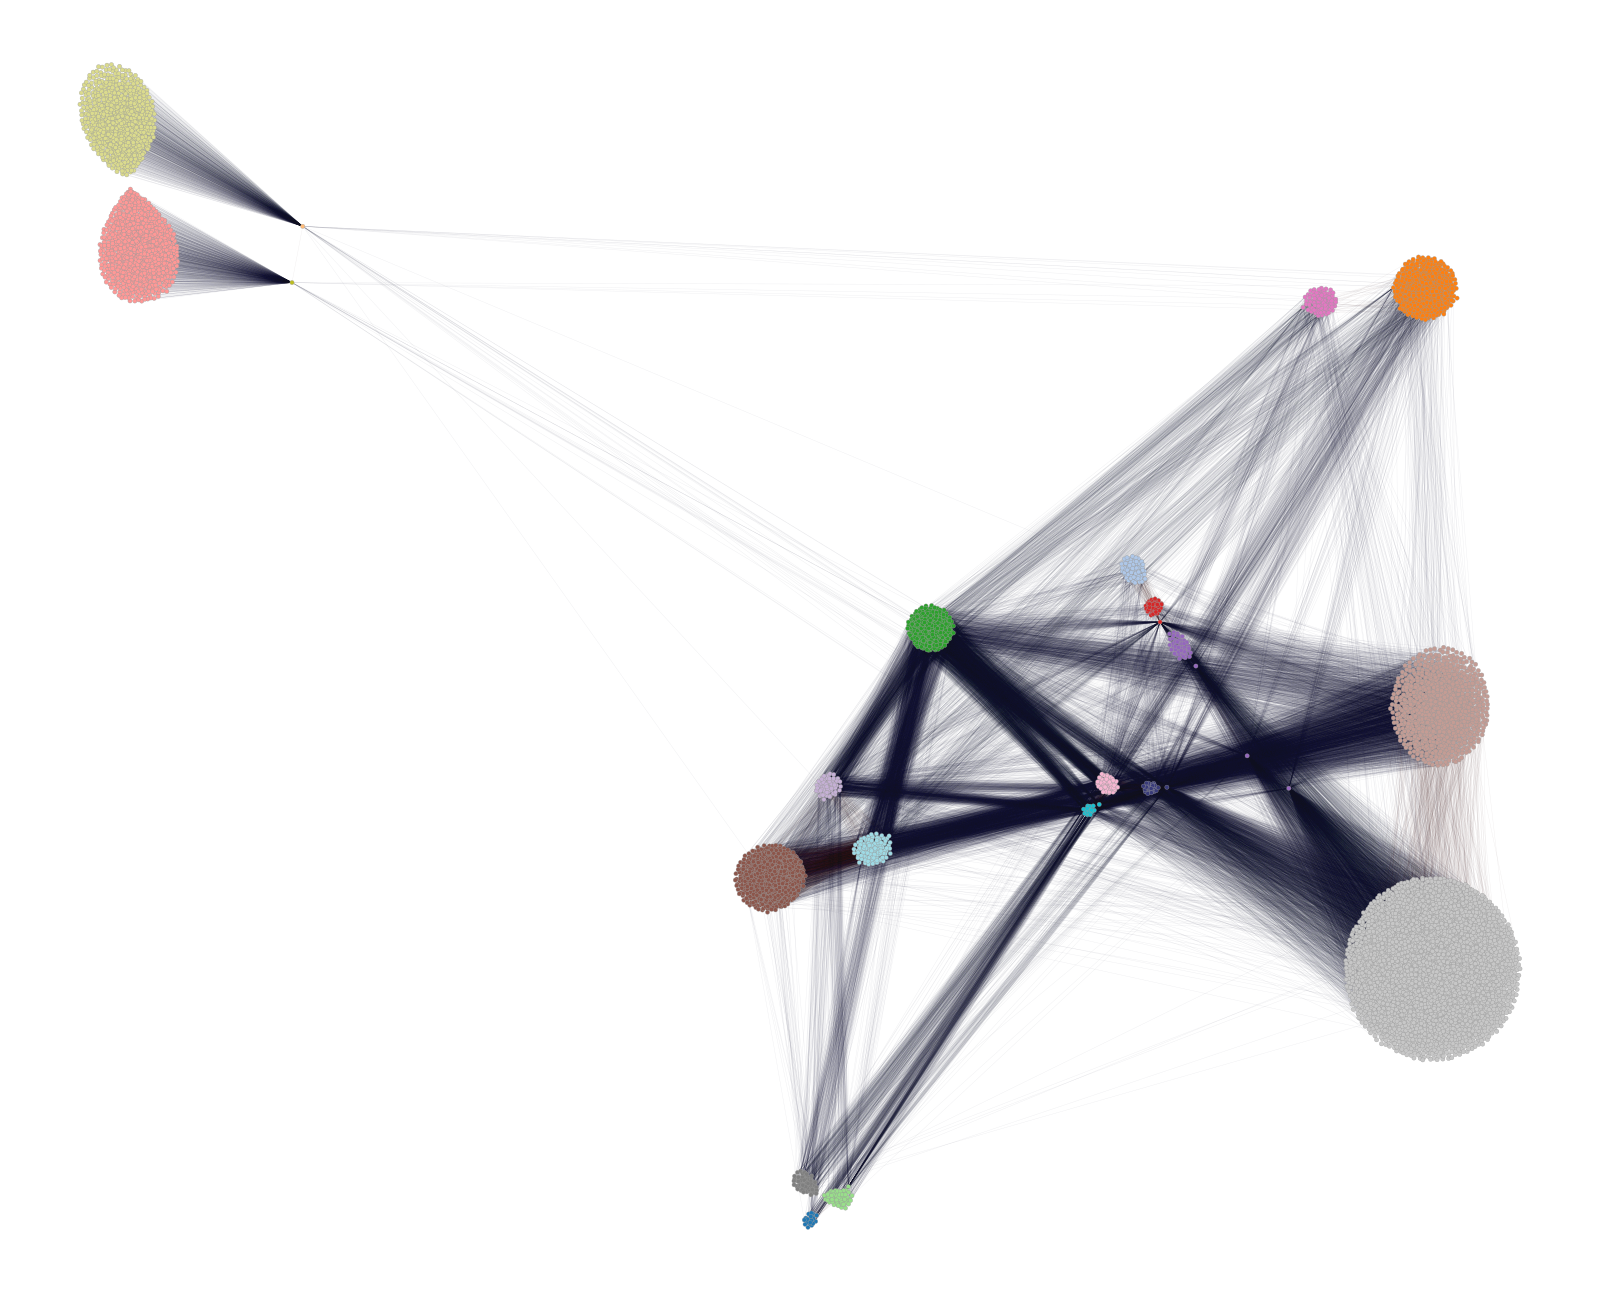
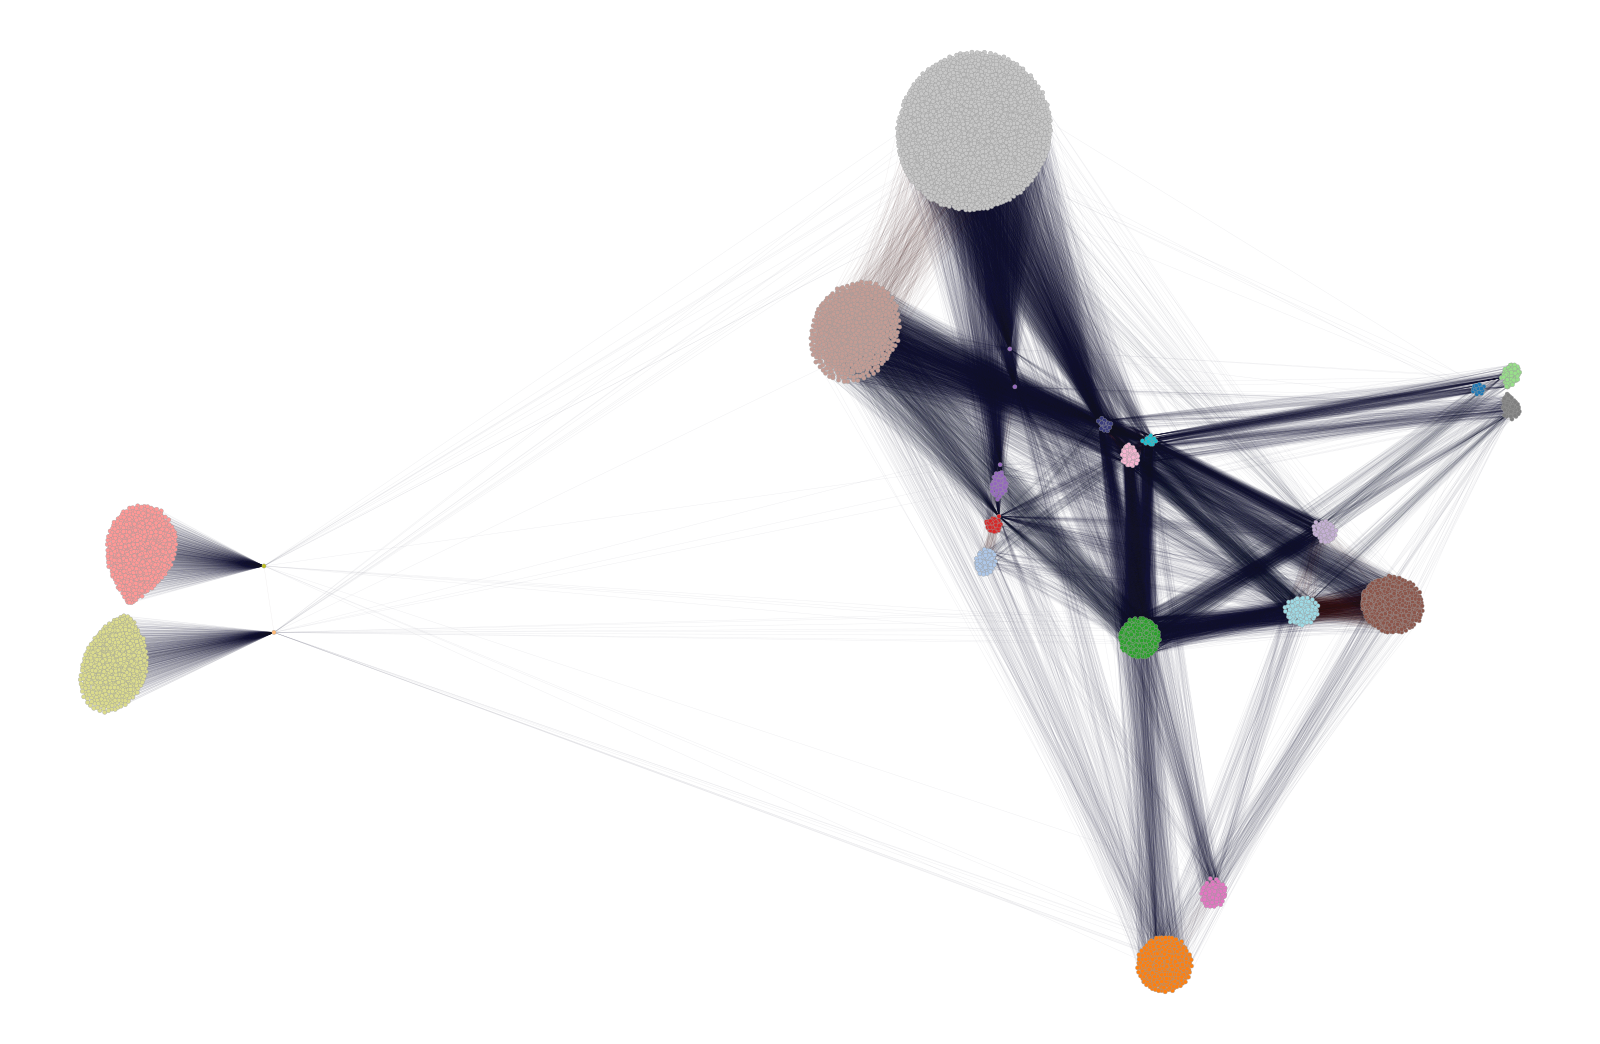
query_results: initial notes and conclusions from weighted SBM

Changed region(s): [[0.4375, 0.0307, 0.9688, 0.9502], [0.0312, 0.0307, 0.1875, 0.2452], [0.0312, 0.4598, 0.1875, 0.705]]

diff --git a/query_results/channel_graph_analysis_graphtool.py b/query_results/channel_graph_analysis_graphtool.py
@@ -450,7 +450,7 @@ def draw_communities_sfdp(
         )
 
 
-def draw_graph_tool_from_graphml_sbm(graphml_file, sbm_file, level=0):
+def draw_graph_tool_from_graphml_sbm(graphml_file, sbm_file, level=0, interact=False):
     print(f"Loading graph from {graphml_file}...")
     G = gt.load_graph(graphml_file)
 
@@ -474,12 +474,15 @@ def draw_graph_tool_from_graphml_sbm(graphml_file, sbm_file, level=0):
     print(f"Loading NestedBlockState from {sbm_file}...")
     state = load_sbm_state(G, sbm_file)
 
-    for level_idx in range(level + 1):
-        # main draw
-        if level_idx == level:
-            draw_communities_sfdp(G, state, level_idx, interactive=True)
-        else:
-            draw_communities_sfdp(G, state, level_idx)
+    if interact:
+        draw_communities_sfdp(G, state, level, interactive=True)
+    else:
+        for level_idx in range(level + 1):
+            # main draw
+            if level_idx == level:
+                draw_communities_sfdp(G, state, level_idx, interactive=True)
+            else:
+                draw_communities_sfdp(G, state, level_idx)
     return
 
 
@@ -502,6 +505,12 @@ Examples:
         "--draw",
         metavar="GRAPHML",
         help="Load a GraphML file and produce interactive HTML (skip SBM detection)",
+    )
+    parser.add_argument(
+        "--interact",
+        type=bool,
+        default=False,
+        help="Open the interactive graph without saving any images",
     )
     parser.add_argument(
         "--levels",
@@ -644,7 +653,7 @@ if __name__ == "__main__":
             sys.exit(1)
 
         draw_graph_tool_from_graphml_sbm(
-            str(graphml_path), str(sbm_path), args.levels - 1
+            str(graphml_path), str(sbm_path), args.levels - 1, args.interact
         )
 
     else:

diff --git a/query_results/notes.md b/query_results/notes.md
@@ -36,3 +36,134 @@ The common approaches seem to be algorithms based on modularity (Leiden, Louvain
 and more complex techniques (statistical block modelling / SBM). Further reading:
 
 <https://skewed.de/lab/posts/modularity-harmful/>
+
+SBM can also be run with additional vertex and edge properties, like edge weights
+for example.
+
+### SBM, no edge weights
+
+Detected 15 hierarchical levels.
+  Level 0: 70 communities (finer → coarser)
+  Level 1: 13 communities (finer → coarser)
+  Level 2: 6 communities (finer → coarser)
+  Level 3: 3 communities (finer → coarser)
+  Level 4: 1 communities (finer → coarser)
+  Level 5: 1 communities (finer → coarser)
+  Level 6: 1 communities (finer → coarser)
+  Level 7: 1 communities (finer → coarser)
+  Level 8: 1 communities (finer → coarser)
+  Level 9: 1 communities (finer → coarser)
+  Level 10: 1 communities (finer → coarser)
+  Level 11: 1 communities (finer → coarser)
+  Level 12: 1 communities (finer → coarser)
+  Level 13: 1 communities (finer → coarser)
+  Level 14: 1 communities (finer → coarser)
+
+Hierarchical Model Description Length: 182314.27
+
+Saving hierarchical results (15 levels)...
+  Level 0 saved to ./data/ln_communities_nested_level_0.csv
+
+  Top 5 Largest Communities at Level 0:
+  community_id
+1545    1891
+7710    1422
+1537    1053
+8492     902
+1098     864
+
+Conclusions from level 0:
+
+1ML node is a hub for community 1545
+LNT.chengdu is a hub for community 8492
+LNT.Thailand is a hub for community 1537
+CoinGate is a hub for community 10948
+node01.fulmo.org is a hub for community 10835
+
+### SBM with edge weights
+
+Detected 15 hierarchical levels.
+  Level 0: 22 communities (finer → coarser)
+  Level 1: 9 communities (finer → coarser)
+  Level 2: 2 communities (finer → coarser)
+  Level 3: 1 community (finer → coarser)
+
+Hierarchical Model Description Length: 244823.54
+
+Community 10023: Size: 5697
+Community 1880: Size: 754
+Community 1008: Size: 85
+Community 7153: Size: 832
+Community 9696: Size: 78
+Community 10420: Size: 901
+Community 8165: Size: 1113
+Community 10959: Size: 130
+Community 495: Size: 24
+Community 2079: Size: 1
+Community 7150: Size: 69
+Community 11489: Size: 24
+Community 5631: Size: 65
+Community 6636: Size: 61
+Community 6269: Size: 1066
+Community 4200: Size: 431
+Community 9854: Size: 73
+Community 9203: Size: 100
+Community 10772: Size: 18
+Community 10395: Size: 1
+Community 4231: Size: 70
+
+Working backwards from node aliases and other information:
+
+We found an entity by poking around mempool.space, before ever running any
+community detection:
+
+<https://btclnt.com/#/>
+
+LNT Periphery:
+Level 1 community 19:
+2079, 1 -> LNT.chengdu, a hub node for BTCLNT project
+10395, 1 -> LNT.Thailand, second hub for BTCLNT project
+
+Level 1 community 20:
+6269, 1066 -> Light Pink -> Spokes hanging off of LNT.Thailand
+10420, 901  -> Light Yellow -> Spokes hanging off of LNT.chengdu
+
+So BTCLNT is ~2000 nodes already spoken for.
+
+Suburbs:
+Level 1 community 0:
+10023, 5697 -> Grey -> "Opening Menu", many low-degree nodes that connecting in to the center, not necessarily each other; lots of Start9s, Alby Hub instances, etc.
+8165, 1113 -> Light Brown -> "Level 2", lightning.emzy.de, moneydevkit, Netherlands Amsterdam LN Hub
+
+Midtown:
+Level 1 community 4:
+6636, 61 -> Light Purple -> "Well Connected", includes 1ML, CoinGate, gameb_1, aantonop, one LQwD and Megalithic node, Start9 hub
+5631, 65 -> Blood Orange -> "Midsize", Mullvad, Blocktank, lightning-roulette, WalletOfSatoshi, jb55
+1008, 85 -> Light Purple-Blue -> "Central-Adjacent"
+
+Downtown / the Core:
+Level 1 community 2:
+11489, 24 -> Dark Purple -> "Balanced Hubs", ACINQ, Podcast Index, citadel21, Moon, Bitrefill Routing
+9696, 78 -> Light Pink -> "Wizened", fulmo, lnbits, Fedi, Blockstream Store, Amboss.Space, stacker.news
+10772, 18 -> Neon Blue -> "Big Chungus", block, OpenNode, okx, Kraken, bfx, 4 LNBiG nodes, Strike
+
+Brooklyn:
+Level 1 community 12:
+7153, 832 -> Dark Brown -> PubkeyMain, El Salvador Pupusa Guy
+7150, 69 -> Lightest Purple -> LOOP, Rizful, routing.blinkbtc.com, bipa, speed1, Megalithic, Noones, IBEX
+10959, 130 -> Lighteset Blue -> BCash_Is_Trash, Play-asia.com, BTC Nigeria
+
+Lower East Side:
+Level 1 community 8:
+4200, 431 -> Green -> Voltage, rompert.hashposition.com, nerdminerstore.com, coinos
+
+Long Island City:
+Level 1 community 6:
+9203, 100 -> Pink -> scarce-city, cloakedwireless, satsquares
+1880, 754 -> Orange -> lnrouter, mempool.space nodes, Einundzwanzig
+
+Jersey City / Business Park:
+Level 1 community 7:
+9854, 73 -> Dark Grey -> "Team Corn", looks like this South Korean wallet: <https://team.oksu.su/>
+495, 24 -> Dark Blue -> zaphq, River, Bitnob
+4231, 70 -> Light Teal -> Binance
